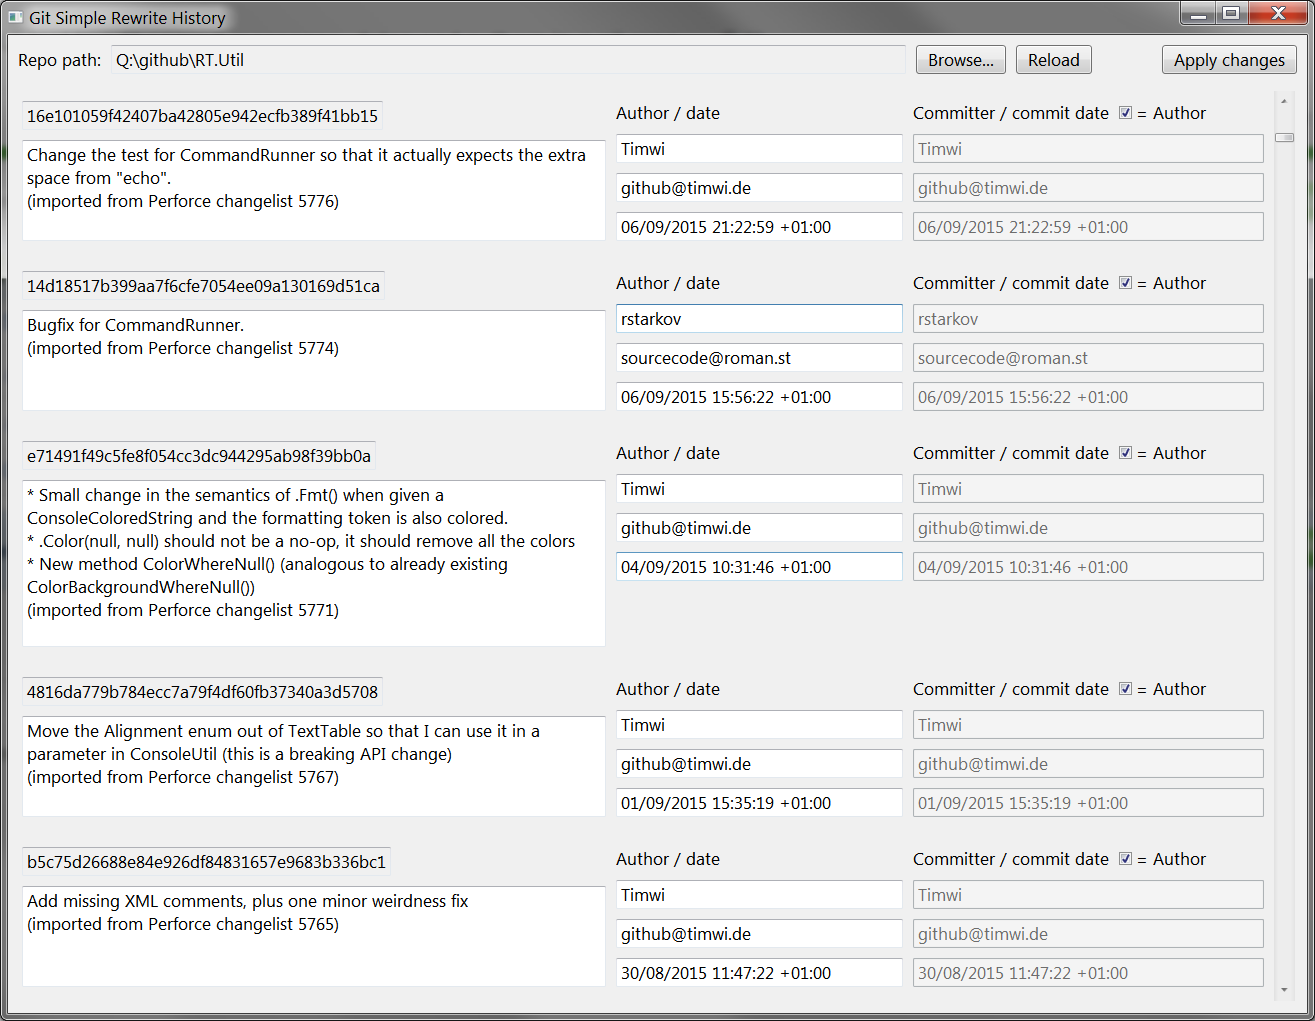
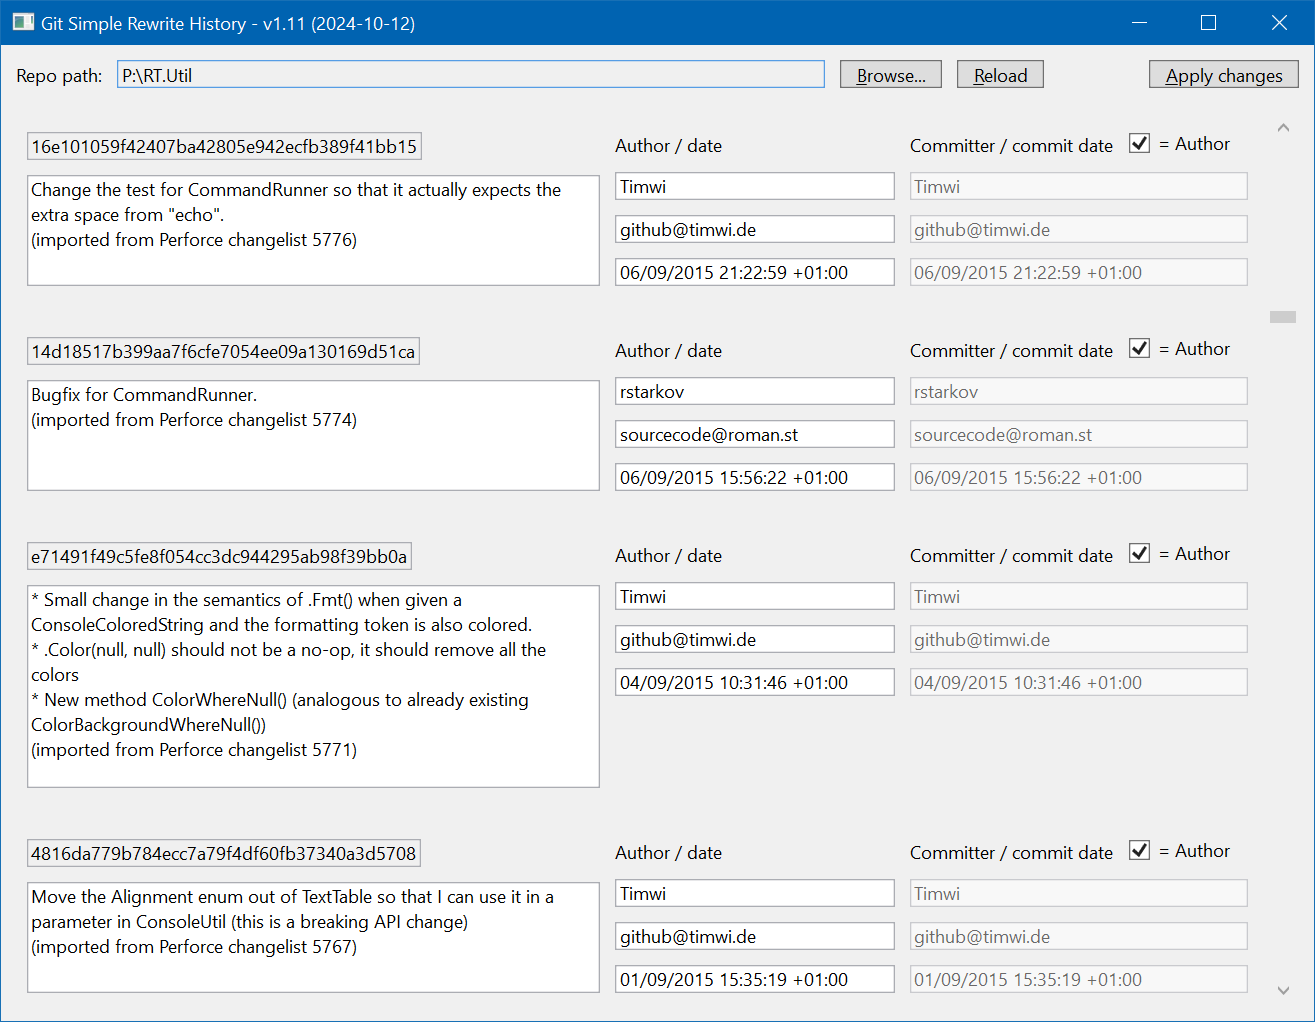
Restore message box styling. Update screenshot.

Changed region(s): [[0.0, 0.0, 1.0, 1.0]]

diff --git a/Src/App.xaml.cs b/Src/App.xaml.cs
@@ -1,17 +1,12 @@
-using System;
-using System.Collections.Generic;
-using System.Configuration;
-using System.Data;
-using System.Linq;
-using System.Threading.Tasks;
-using System.Windows;
+using System.Windows;
 
-namespace GitSimpleRewriteHistory
+namespace GitSimpleRewriteHistory;
+
+public partial class App : Application
 {
-    /// <summary>
-    /// Interaction logic for App.xaml
-    /// </summary>
-    public partial class App : Application
+    protected override void OnStartup(StartupEventArgs e)
     {
+        base.OnStartup(e);
+        System.Windows.Forms.Application.EnableVisualStyles();
     }
 }
